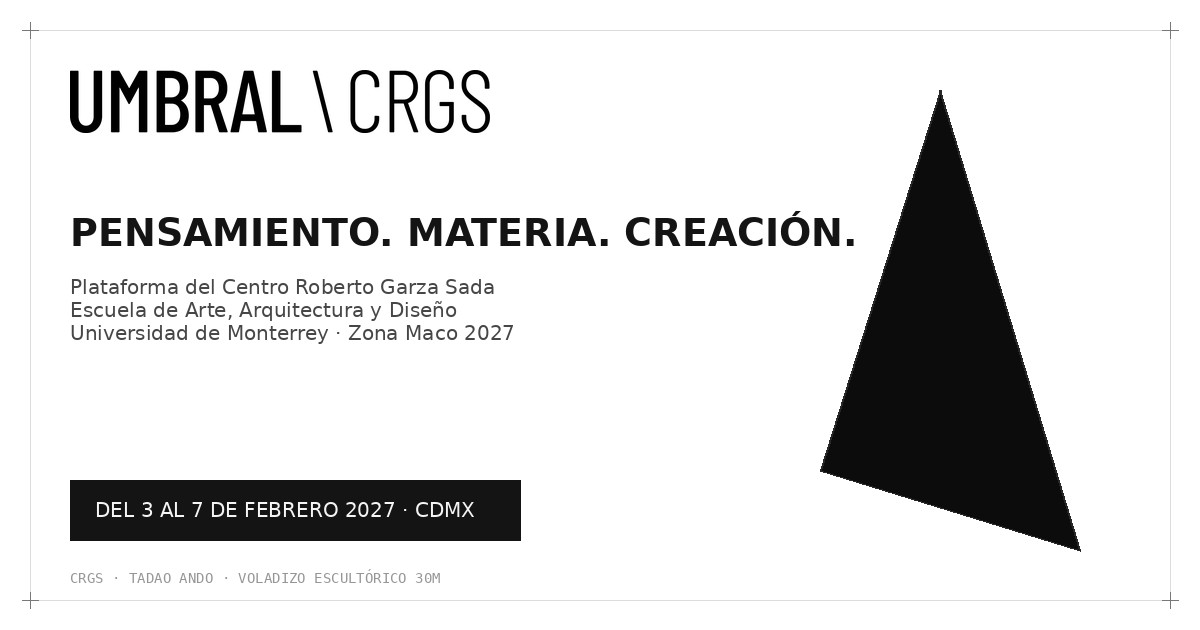
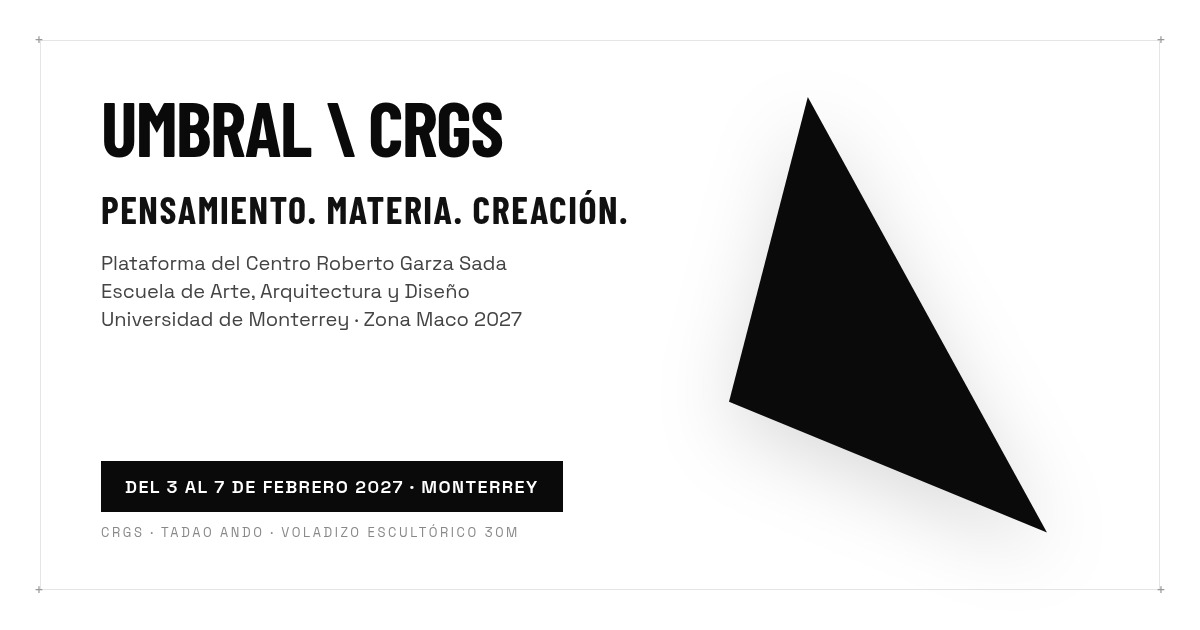
feat: calibrate crgs scroll positioning and update og previews to monterrey

diff --git a/components/crgs/CrgsPuertaCreacion.vue b/components/crgs/CrgsPuertaCreacion.vue
@@ -1,90 +1,107 @@
 <template>
-  <section ref="sectionRef" class="relative bg-[#0A0A0A] py-20 lg:py-32 overflow-hidden text-white select-none">
-    <!-- Resplandor ambiental verde esmeralda arquitectónico -->
+  <section
+    ref="sectionRef"
+    class="relative bg-[#0A0A0A] min-h-[75vh] lg:min-h-[85vh] overflow-hidden flex items-center justify-center select-none py-10 sm:py-16"
+  >
+    <!-- Resplandor ambiental verde esmeralda -->
     <div
       class="absolute inset-0 pointer-events-none flex items-center justify-center transition-opacity duration-1000"
-      :class="isOpen ? 'opacity-75' : 'opacity-25'"
+      :class="isOpen ? 'opacity-60' : 'opacity-20'"
       aria-hidden="true"
     >
-      <div class="w-[520px] sm:w-[780px] h-[360px] sm:h-[520px] bg-[#3E9B44]/20 blur-[130px] rounded-full" />
+      <div class="w-[500px] sm:w-[750px] h-[360px] sm:h-[500px] bg-[#4BA550]/20 blur-[140px] rounded-full" />
     </div>
 
-    <div class="relative z-10 max-w-[1280px] mx-auto px-6 sm:px-12 flex flex-col items-center">
-      <div class="flex items-center gap-3 font-mono text-xs uppercase tracking-[0.28em] text-[#4BA550] mb-8 sm:mb-12">
-        <span class="w-2 h-2 rounded-full bg-[#4BA550] animate-pulse" />
-        <span>CRGS · Hito Tadao Ando · Archivo Audiovisual</span>
-      </div>
+    <!-- Anotación a la izquierda (exacta de Figma) -->
+    <p class="font-barlow italic text-neutral-400 text-xs sm:text-sm max-w-[190px] leading-snug absolute left-6 sm:left-12 lg:left-16 top-1/2 -translate-y-1/2 z-20 text-left pointer-events-none">
+      Video + close up del triangulo como la inspo de "close the gap" pero como abriendose
+    </p>
 
-      <!-- Escenario Monumental 3D -->
-      <div class="relative w-full max-w-[960px] aspect-[16/10] sm:aspect-[16/9] flex items-center justify-center perspective-[1400px]">
-        <!-- Cápsula Audiovisual Documental (Nivel Fondo Z-0) -->
-        <div
-          class="absolute inset-0 w-full h-full rounded-sm overflow-hidden border border-white/10 bg-neutral-950 shadow-2xl transition-all duration-700 ease-out"
-          :class="isOpen ? 'scale-100 opacity-100' : 'scale-95 opacity-20 pointer-events-none'"
-        >
-          <img
-            src="/images/crgs-building.png"
-            alt="Documental de la repentina y talleres del CRGS"
-            class="w-full h-full object-cover grayscale contrast-115 brightness-90 transition-transform duration-1000"
-            :class="{ 'scale-105 filter-none': isPlaying }"
-          />
-          <div class="absolute inset-0 bg-gradient-to-t from-[#0A0A0A] via-black/40 to-transparent flex flex-col justify-between p-6 sm:p-10">
-            <div class="flex items-center justify-between text-xs font-mono uppercase tracking-widest text-neutral-400">
-              <span class="flex items-center gap-2">
-                <span class="w-2 h-2 rounded-full" :class="isPlaying ? 'bg-red-500 animate-pulse' : 'bg-[#4BA550]'" />
-                {{ isPlaying ? 'REPRODUCIENDO · LA REPENTINA' : 'REGISTRO AUDIOVISUAL · CRGS' }}
-              </span>
-              <span>13,000 m² · TADAO ANDO</span>
-            </div>
-            <div class="flex items-end justify-between gap-4">
-              <div>
-                <span class="font-mono text-[11px] text-[#4BA550] uppercase tracking-widest block mb-1">CÁPSULA DOCUMENTAL</span>
-                <h3 class="font-barlow font-semibold text-2xl sm:text-4xl text-white uppercase tracking-tight">Talleres & Proceso Creativo</h3>
-              </div>
-              <button
-                type="button"
-                class="px-5 py-2.5 rounded-full bg-white text-black font-barlow font-bold text-xs uppercase tracking-widest hover:bg-[#4BA550] hover:text-white transition-all duration-300 shadow-lg flex items-center gap-2 cursor-pointer pointer-events-auto"
-                @click.stop="isPlaying = !isPlaying"
-              >
-                <span>{{ isPlaying ? 'PAUSAR' : 'REPRODUCIR' }}</span>
-              </button>
-            </div>
+    <!-- Escenario Monumental Origami 3D -->
+    <div class="relative w-full max-w-[980px] mx-auto px-4 flex items-center justify-center perspective-[1200px]">
+      <!-- Cápsula Audiovisual Documental (Nivel Fondo Z-10) -->
+      <div
+        class="w-full max-w-[760px] aspect-[16/10] sm:aspect-video rounded-sm overflow-hidden border border-white/10 bg-neutral-950 shadow-2xl transition-all duration-1000 ease-[cubic-bezier(0.16,1,0.3,1)] z-10"
+        :class="isOpen ? 'scale-100 opacity-100 pointer-events-auto' : 'scale-90 opacity-0 pointer-events-none'"
+      >
+        <img
+          src="/images/crgs-building.png"
+          alt="Documental Tadao Ando y Centro Roberto Garza Sada"
+          class="w-full h-full object-cover grayscale contrast-110 brightness-90 transition-transform duration-1000"
+          :class="{ 'scale-105 filter-none': isPlaying }"
+        />
+        <div class="absolute inset-0 bg-gradient-to-t from-[#0A0A0A] via-black/40 to-transparent flex flex-col justify-between p-6 sm:p-8">
+          <div class="flex items-center justify-between text-xs font-mono uppercase tracking-widest text-neutral-300">
+            <span class="flex items-center gap-2">
+              <span class="w-2 h-2 rounded-full" :class="isPlaying ? 'bg-red-500 animate-pulse' : 'bg-[#4BA550]'" />
+              {{ isPlaying ? 'REPRODUCIENDO · LA REPENTINA' : 'REGISTRO AUDIOVISUAL · CRGS' }}
+            </span>
+            <span>13,000 m² · TADAO ANDO</span>
           </div>
-        </div>
-
-        <!-- Portal Origami Aperture 3D (Nivel Frontal Z-10) -->
-        <div class="absolute inset-0 flex items-center justify-center will-change-transform drop-shadow-[0_0_40px_rgba(75,165,80,0.35)]" style="transform-style: preserve-3d">
-          <div class="origami-facet facet-left absolute inset-0 bg-gradient-to-br from-[#4BA550] via-[#3E9B44] to-[#256B29] transition-all duration-700 ease-out" :style="leftFacetStyle" />
-          <div class="origami-facet facet-right absolute inset-0 bg-gradient-to-bl from-[#4BA550] via-[#3E9B44] to-[#1e5821] transition-all duration-700 ease-out" :style="rightFacetStyle" />
-
-          <!-- Titular Monumental Itálico y Botón Apertura -->
-          <div
-            class="relative z-20 flex flex-col items-center justify-center p-6 text-center transition-all duration-500"
-            :class="isOpen ? 'opacity-0 -translate-y-8 pointer-events-none' : 'opacity-100 translate-y-0 pointer-events-auto'"
-          >
-            <h2 class="font-barlow italic font-medium sm:font-semibold text-4xl sm:text-6xl lg:text-7xl text-white text-center select-none tracking-tight drop-shadow-[0_6px_28px_rgba(0,0,0,0.85)]">
-              La Puerta de la Creación
-            </h2>
+          <div class="flex items-end justify-between gap-4">
+            <div>
+              <span class="font-mono text-[11px] text-[#4BA550] uppercase tracking-widest block mb-1">CÁPSULA DOCUMENTAL</span>
+              <h3 class="font-barlow font-semibold text-2xl sm:text-3xl text-white uppercase tracking-tight">Talleres &amp; Proceso Creativo</h3>
+            </div>
             <button
               type="button"
-              class="mt-6 sm:mt-8 px-6 sm:px-8 py-3 rounded-full bg-neutral-950/90 text-white border border-[#4BA550]/50 font-barlow font-semibold text-xs sm:text-sm tracking-[0.2em] uppercase hover:border-[#4BA550] hover:shadow-[0_0_30px_rgba(75,165,80,0.55)] hover:scale-105 active:scale-95 transition-all duration-300 cursor-pointer"
-              @click="togglePortal"
+              class="px-5 py-2.5 rounded-full bg-white text-black font-barlow font-bold text-xs uppercase tracking-widest hover:bg-[#4BA550] hover:text-white transition-all duration-300 shadow-lg cursor-pointer"
+              @click.stop="isPlaying = !isPlaying"
             >
-              [ DESPLEGAR PORTAL DOCUMENTAL ]
+              <span>{{ isPlaying ? 'PAUSAR' : 'REPRODUCIR' }}</span>
             </button>
           </div>
         </div>
       </div>
 
-      <button
-        v-if="isOpen"
-        type="button"
-        class="mt-8 font-mono text-xs uppercase tracking-[0.2em] text-neutral-400 hover:text-white transition-colors flex items-center gap-2 border-b border-neutral-700 pb-1 cursor-pointer"
-        @click="togglePortal"
+      <!-- Portal Origami Aperture (Triángulo Monumental Verde Esmeralda) -->
+      <div class="absolute inset-0 flex items-center justify-center pointer-events-none z-20" style="transform-style: preserve-3d">
+        <div
+          class="relative w-[340px] sm:w-[440px] lg:w-[480px] aspect-[420/560] cursor-pointer pointer-events-auto transition-transform duration-700"
+          :class="isOpen ? 'scale-95' : 'hover:scale-[1.02]'"
+          role="button"
+          :aria-expanded="isOpen"
+          aria-label="Desplegar portal documental de La Puerta de la Creación"
+          @click="togglePortal"
+        >
+          <!-- Faceta Izquierda Origami -->
+          <svg
+            viewBox="0 0 420 560"
+            class="absolute inset-0 w-full h-full origami-facet filter drop-shadow-[0_16px_40px_rgba(0,0,0,0.7)] transition-all duration-1000 ease-[cubic-bezier(0.16,1,0.3,1)]"
+            :style="leftFacetStyle"
+          >
+            <polygon points="170,0 210,490 0,420" fill="#4BA550" />
+          </svg>
+
+          <!-- Faceta Derecha Origami -->
+          <svg
+            viewBox="0 0 420 560"
+            class="absolute inset-0 w-full h-full origami-facet filter drop-shadow-[0_16px_40px_rgba(0,0,0,0.7)] transition-all duration-1000 ease-[cubic-bezier(0.16,1,0.3,1)]"
+            :style="rightFacetStyle"
+          >
+            <polygon points="170,0 420,560 210,490" fill="#439A48" />
+          </svg>
+        </div>
+      </div>
+
+      <!-- Titular Monumental Itálico en una sola línea centrado directamente sobre el triángulo -->
+      <h2
+        class="font-barlow italic font-medium sm:font-semibold text-5xl sm:text-7xl lg:text-8xl text-white text-center whitespace-nowrap select-none drop-shadow-[0_8px_32px_rgba(0,0,0,0.85)] z-20 pointer-events-none absolute top-1/2 left-1/2 -translate-x-1/2 -translate-y-1/2 transition-all duration-700 ease-out"
+        :class="isOpen ? '-translate-y-[150%] sm:-translate-y-[170%] scale-75 sm:scale-85 text-white/90' : 'scale-100 text-white'"
       >
-        <span>✕ CERRAR UMBRAL ORIGAMI</span>
-      </button>
+        La Puerta de la Creación
+      </h2>
     </div>
+
+    <!-- Botón de repliegue cuando está desplegado -->
+    <button
+      v-if="isOpen"
+      type="button"
+      class="absolute bottom-8 left-1/2 -translate-x-1/2 z-20 font-mono text-xs uppercase tracking-[0.2em] text-neutral-400 hover:text-white transition-colors flex items-center gap-2 border-b border-neutral-700 pb-1 cursor-pointer"
+      @click="togglePortal"
+    >
+      <span>✕ CERRAR UMBRAL ORIGAMI</span>
+    </button>
   </section>
 </template>
 
@@ -102,25 +119,21 @@ const togglePortal = () => {
   if (!isOpen.value) isPlaying.value = false
 }
 
-const leftFacetStyle = computed(() => {
-  if (isReducedMotion.value) return { opacity: isOpen.value ? '0' : '1', pointerEvents: isOpen.value ? 'none' : 'auto' }
-  return {
-    transformOrigin: '0% 50%',
-    transform: isOpen.value ? 'rotateY(-88deg) scale(0.92) translateX(-20px)' : 'rotateY(0deg) scale(1) translateX(0)',
-    opacity: isOpen.value ? '0.1' : '1',
-    pointerEvents: isOpen.value ? 'none' : 'auto'
-  }
-})
+const leftFacetStyle = computed(() => isReducedMotion.value
+  ? { opacity: isOpen.value ? '0.15' : '1', pointerEvents: isOpen.value ? 'none' : 'auto' }
+  : {
+    transformOrigin: '15% 50%',
+    transform: isOpen.value ? 'rotateY(-78deg) translateX(-90px) translateZ(-20px) scale(0.9)' : 'none',
+    opacity: isOpen.value ? '0.2' : '1'
+  })
 
-const rightFacetStyle = computed(() => {
-  if (isReducedMotion.value) return { opacity: isOpen.value ? '0' : '1', pointerEvents: isOpen.value ? 'none' : 'auto' }
-  return {
-    transformOrigin: '100% 50%',
-    transform: isOpen.value ? 'rotateY(88deg) scale(0.92) translateX(20px)' : 'rotateY(0deg) scale(1) translateX(0)',
-    opacity: isOpen.value ? '0.1' : '1',
-    pointerEvents: isOpen.value ? 'none' : 'auto'
-  }
-})
+const rightFacetStyle = computed(() => isReducedMotion.value
+  ? { opacity: isOpen.value ? '0.15' : '1', pointerEvents: isOpen.value ? 'none' : 'auto' }
+  : {
+    transformOrigin: '85% 50%',
+    transform: isOpen.value ? 'rotateY(78deg) translateX(90px) translateZ(-20px) scale(0.9)' : 'none',
+    opacity: isOpen.value ? '0.2' : '1'
+  })
 
 onMounted(() => {
   if (!import.meta.client) return
@@ -132,14 +145,11 @@ onMounted(() => {
     observer.observe(sectionRef.value)
   }
 })
-
 onUnmounted(() => { observer?.disconnect() })
 </script>
 
 <style scoped>
 .origami-facet { backface-visibility: hidden; will-change: transform, opacity; }
-.facet-left { clip-path: polygon(50% 6%, 50% 94%, 8% 94%); }
-.facet-right { clip-path: polygon(50% 6%, 92% 94%, 50% 94%); }
 @media (prefers-reduced-motion: reduce) {
   .origami-facet { transition: opacity 0.3s ease !important; transform: none !important; }
 }

diff --git a/components/crgs/CrgsHero.vue b/components/crgs/CrgsHero.vue
@@ -1,9 +1,9 @@
 <template>
-  <section class="relative bg-white overflow-hidden pt-8 pb-16 lg:pt-12 lg:pb-24 border-b border-neutral-200">
+  <section class="relative bg-white overflow-hidden pt-6 pb-12 lg:pt-10 lg:pb-16 border-b border-neutral-200">
     <div class="max-w-[1720px] mx-auto px-6 sm:px-12">
       <!-- Header Institucional Superior -->
       <header
-        class="flex flex-wrap items-center justify-between gap-4 font-barlow text-xs sm:text-sm uppercase tracking-widest text-neutral-400 pb-4 mb-8 sm:mb-12 border-b border-neutral-200 transition-opacity duration-700"
+        class="flex flex-wrap items-center justify-between gap-4 font-barlow text-xs sm:text-sm uppercase tracking-widest text-neutral-400 pb-3 mb-6 sm:mb-8 border-b border-neutral-200 transition-opacity duration-700"
         :class="isLoaded ? 'opacity-100' : 'opacity-0'"
       >
         <div class="flex items-center gap-2">
@@ -19,35 +19,27 @@
       </header>
 
       <!-- Hero Grid: Titular Monumental & Polígono Arquitectónico -->
-      <div class="grid grid-cols-1 lg:grid-cols-12 gap-10 lg:gap-16 items-center">
+      <div class="grid grid-cols-1 lg:grid-cols-12 gap-8 lg:gap-14 items-center">
         <!-- Izquierda: Titular monumental masivo -->
         <div
-          class="lg:col-span-7 space-y-6 transition-all duration-1000 ease-out"
-          :class="isLoaded ? 'opacity-100 translate-y-0' : 'opacity-0 translate-y-8'"
+          class="lg:col-span-7 space-y-4 transition-all duration-1000 ease-out"
+          :class="isLoaded ? 'opacity-100 translate-y-0' : 'opacity-0 translate-y-6'"
         >
           <span class="font-barlow text-xs sm:text-sm uppercase tracking-widest text-neutral-500 block font-medium">
             Universidad de Monterrey · Escuela de Arte y Diseño
           </span>
 
-          <h1 class="font-barlow font-bold text-6xl sm:text-8xl lg:text-9xl xl:text-[140px] text-neutral-950 leading-[0.88] tracking-tight">
+          <h1 class="font-barlow font-bold text-6xl sm:text-8xl lg:text-9xl xl:text-[130px] text-neutral-950 leading-[0.88] tracking-tight">
             Centro Roberto<br />
             Garza Sada
           </h1>
-
-          <p class="font-barlow font-normal text-2xl sm:text-3xl lg:text-4xl text-neutral-700 tracking-tight">
-            "La Puerta de la Creación"
-          </p>
-
-          <p class="font-sans text-neutral-600 text-base sm:text-lg leading-relaxed max-w-xl text-justify">
-            Diseñado por el maestro Tadao Ando, este monolito de 13,000 m² de concreto aparente es un hito de la arquitectura contemporánea y el portal de excelencia creativa en Latinoamérica.
-          </p>
         </div>
 
         <!-- Derecha: Polígono masivo negro de Tadao Ando cortando diagonalmente -->
         <div class="lg:col-span-5 flex justify-center lg:justify-end">
           <div
-            class="relative w-full max-w-[540px] aspect-[5/6] sm:aspect-[6/7] lg:aspect-auto lg:h-[540px] transition-all duration-1000 delay-150 ease-out"
-            :class="isLoaded ? 'opacity-100 translate-x-0 translate-y-0 scale-100' : 'opacity-0 translate-x-8 -translate-y-4 scale-95'"
+            class="relative w-full max-w-[480px] aspect-[5/6] sm:aspect-[6/7] lg:aspect-auto lg:h-[460px] transition-all duration-1000 delay-150 ease-out"
+            :class="isLoaded ? 'opacity-100 translate-x-0 translate-y-0 scale-100' : 'opacity-0 translate-x-6 -translate-y-2 scale-95'"
           >
             <svg
               viewBox="0 0 600 680"

diff --git a/pages/crgs.vue b/pages/crgs.vue
@@ -1,11 +1,8 @@
 <template>
   <div class="bg-white min-h-screen">
     <CrgsHero />
-    <AppMarquee />
-    <CrgsPedagogy />
     <CrgsPuertaCreacion />
     <CrgsPrograms />
-    <CrgsGraduate />
   </div>
 </template>
 
